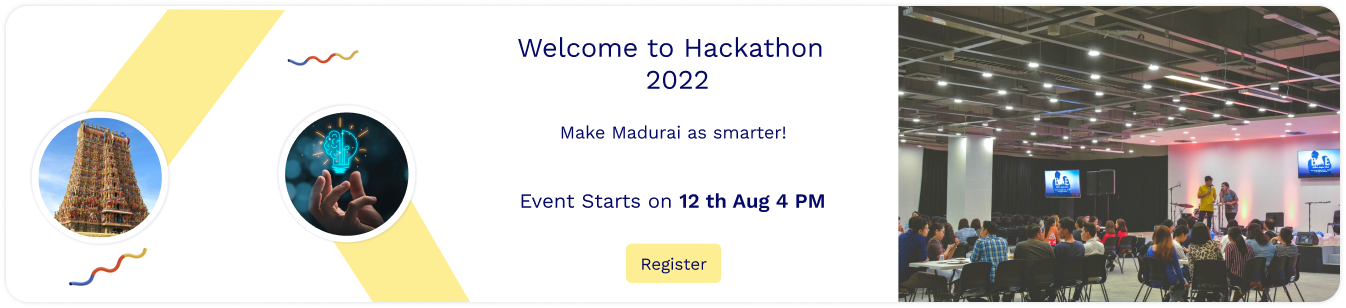
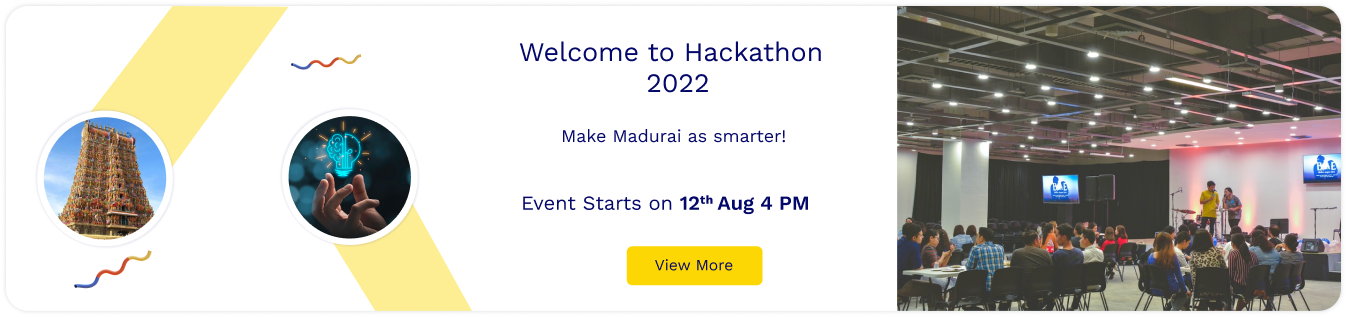
Solution text correction date sup added

diff --git a/pages/register/index.vue b/pages/register/index.vue
@@ -75,7 +75,7 @@
                 <div class="media-content">
                   <p class="title is-6">Online or offline</p>
                   <p class="subtitle is-6">offline presence is needed from 12-Aug-2022 4pm to 14-Aug-2022 6pm,
-                    Soluction can be created online,remotely from nowitself. </p>
+                    Solution can be created online,remotely from nowitself. </p>
                 </div>
               </div>
             </div>
@@ -93,7 +93,7 @@
                 <div class="media-content">
                   <p class="title is-6">How to form my team</p>
                   <p class="subtitle is-6">you can form a team with your friends or form a team while discussing
-                    problems at discord channels: or,form a team on 12-Aug at offlinenetworking. </p>
+                    problems at discord channels: or, form a team on 12-Aug at offline networking. </p>
                 </div>
               </div>
             </div>
@@ -126,16 +126,16 @@
                   </figure>
                 </div>
                 <div class="media-content">
-                  <p class="title is-6">What is expected as a soluction?</p>
+                  <p class="title is-6">What is expected as a solution?</p>
                   <ul>
-                    <li>you can create your own soluction from scratch</li>
-                    <li>you can reuse existing soluction from the market,
+                    <li>you can create your own solution from scratch</li>
+                    <li>you can reuse existing solution from the market,
                       github,but do your value addition. Avoid just
-                      demonstrating soluction from the market/github.</li>
-                    <li>Soluction can be hardware,software or mix of it</li>
+                      demonstrating solution from the market/github.</li>
+                    <li>Solution can be hardware,software or mix of it</li>
                     <li>
-                      Soluction can be just a design or a prototype,
-                      or a complete soluction
+                      Solution can be just a design or a prototype,
+                      or a complete solution
                     </li>
                   </ul>
                 </div>
@@ -154,7 +154,7 @@
                 </div>
                 <div class="media-content">
                   <p class="title is-6">Value</p>
-                  <p class="subtitle is-6">Bring out Innovative soluctions to transform our cities to be smarter
+                  <p class="subtitle is-6">Bring out Innovative solutions to transform our cities to be smarter
                     resilient and suistainable
                   </p>
 
@@ -172,7 +172,7 @@
                 </div>
                 <div class="media-content">
                   <p class="title is-6">www.mdu-tech.org</p>
-                  <p class="subtitle is-6">Madurai Hackathon 2022 is organized by Madurai tech community, a
+                  <p class="subtitle is-6">Madurai Hackathon 2022 is organized by Madurai Tech Community, a
                     Not-for-Profit Trust run by volunteers.
                   </p>
 

diff --git a/pages/index.vue b/pages/index.vue
@@ -74,7 +74,7 @@
                       <p>Event Date</p>
                     </div>
                     <div class="venu_content">
-                      <p>12th Aug 4 PM to 14th Aug 6 PM</p>
+                      <p>12<sup>th</sup> Aug 4 PM to 14<sup>th</sup> Aug 6 PM</p>
                     </div>
                   </div>
                 </li>
@@ -129,7 +129,7 @@
                   <img src="@/assets/img/home/kumarvembu.png" class="" />
                 </div>
                 <p class="speaker_txt_small">Inaugration Ceremony Keynote Speaker</p>
-                <p class="speaker_txt_small">12 August, 2022 - Friday</p>
+                <p class="speaker_txt_small">12<sup>th</sup> August, 2022 - Friday</p>
                 <p class="speaker_txt_big">Mr. Kumar Vembu</p>
                 <p class="speaker_txt_small">CEO & Founder- Gofrugal</p>
               </div>
@@ -140,7 +140,7 @@
                   <img src="@/assets/img/home/saba.png" class="" />
                 </div>
                 <p class="speaker_txt_small">Tech Session Speaker</p>
-                <p class="speaker_txt_small">13 August, 2022 - Saturday</p>
+                <p class="speaker_txt_small">13<sup>th</sup> August, 2022 - Saturday</p>
                 <p class="speaker_txt_big">Mr. Sabapathy Narayanan</p>
                 <p class="speaker_txt_small">Corporate story teller</p>
               </div>
@@ -153,7 +153,7 @@
                   <img src="@/assets/img/home/murali.png" class="" />
                 </div>
                 <p class="speaker_txt_small">Awarding Ceremony Keynote speaker from Academia</p>
-                <p class="speaker_txt_small">14 August, 2022 - Sunday</p>
+                <p class="speaker_txt_small">14<sup>th</sup> August, 2022 - Sunday</p>
                 <p class="speaker_txt_big">Prof.Dr.Murali Sambasivan</p>
                 <p class="speaker_txt_small">Director - Thiagarajar school of Mangagement</p>
               </div>
@@ -164,7 +164,7 @@
                   <img src="@/assets/img/home/thiru.png" class="" />
                 </div>
                 <p class="speaker_txt_small">Awarding Ceremony Keynote speaker from Industry</p>
-                <p class="speaker_txt_small">14 August, 2022 - Sunday</p>
+                <p class="speaker_txt_small">14<sup>th</sup> August, 2022 - Sunday</p>
                 <p class="speaker_txt_big">Mr. Thirumurugan subburaj</p>
                 <p class="speaker_txt_small">Operations Director - HCL Technologies</p>
               </div>

diff --git a/assets/css/style.css b/assets/css/style.css
@@ -766,7 +766,7 @@ a.navbar-item.is-active,
 }
 
 .winner_text2 {
-  font-size: 14px;
+  font-size: 15px;
   line-height: 20px;
   color: #040869;
 }
@@ -1274,7 +1274,7 @@ a.navbar-item.is-active,
 
 .register_card .media-content .subtitle {
   margin-bottom: 2%;
-  font-size: 13px;
+  font-size: 14px;
   line-height: 19px;
 }
 
@@ -1299,7 +1299,7 @@ a.navbar-item.is-active,
 }
 
 .register_yellow_box {
-  background: #FEFAE5;
+  background: #FCD704;
   border-radius: 10px;
   padding: 12px;
   text-align: center;
@@ -1327,7 +1327,7 @@ a.navbar-item.is-active,
 
 .register_card ul {
   list-style: disc;
-  font-size: 13px;
+  font-size: 14px;
 }
 
 .register_card ul li {
